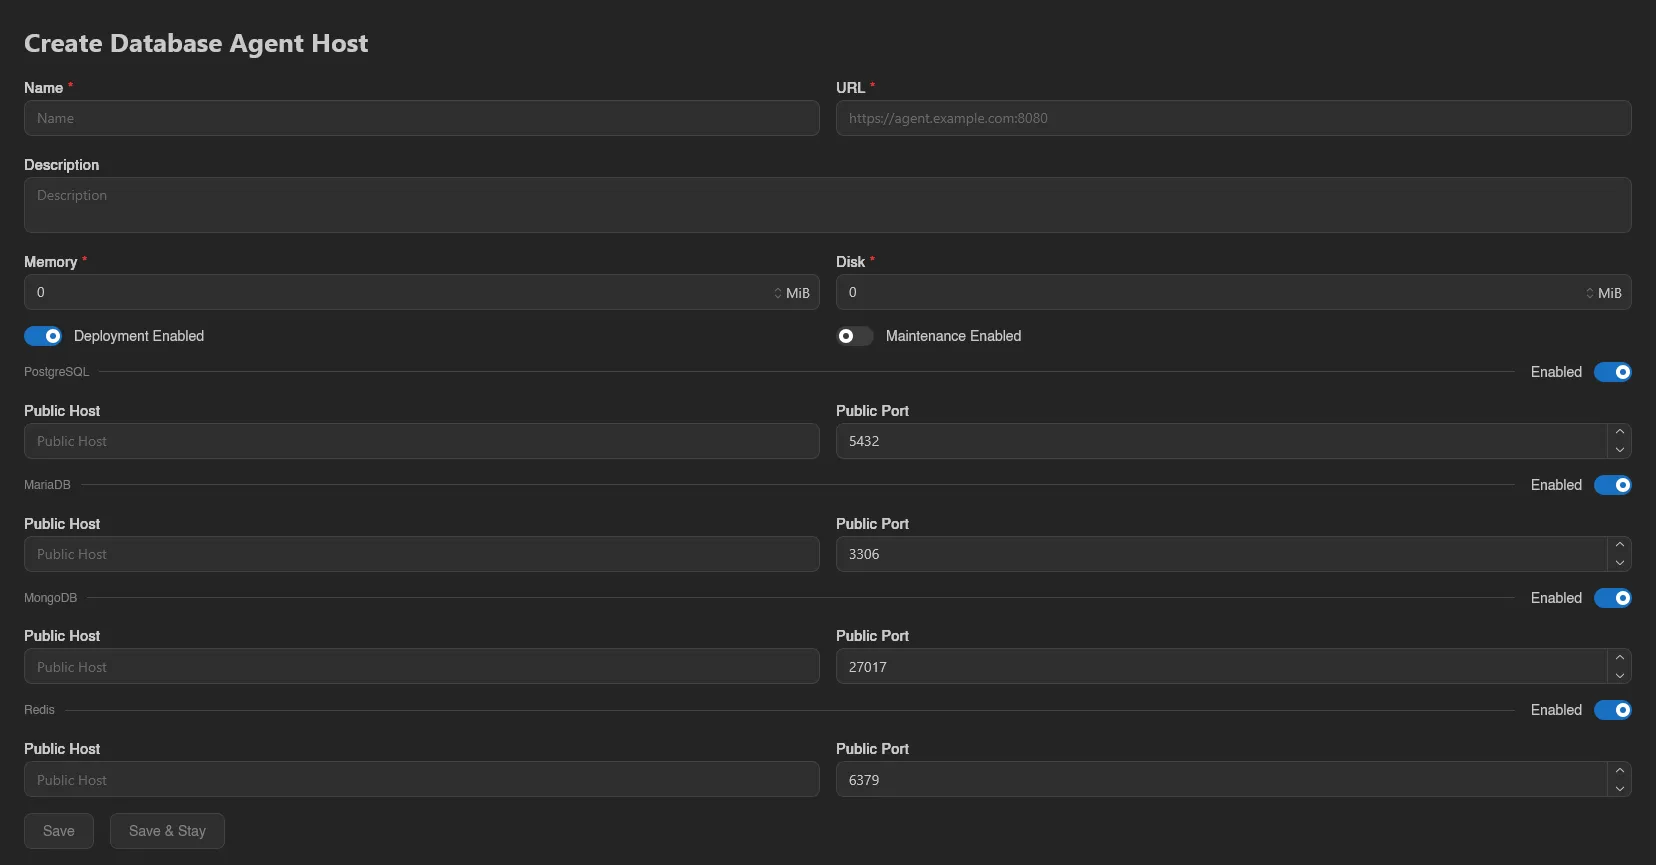
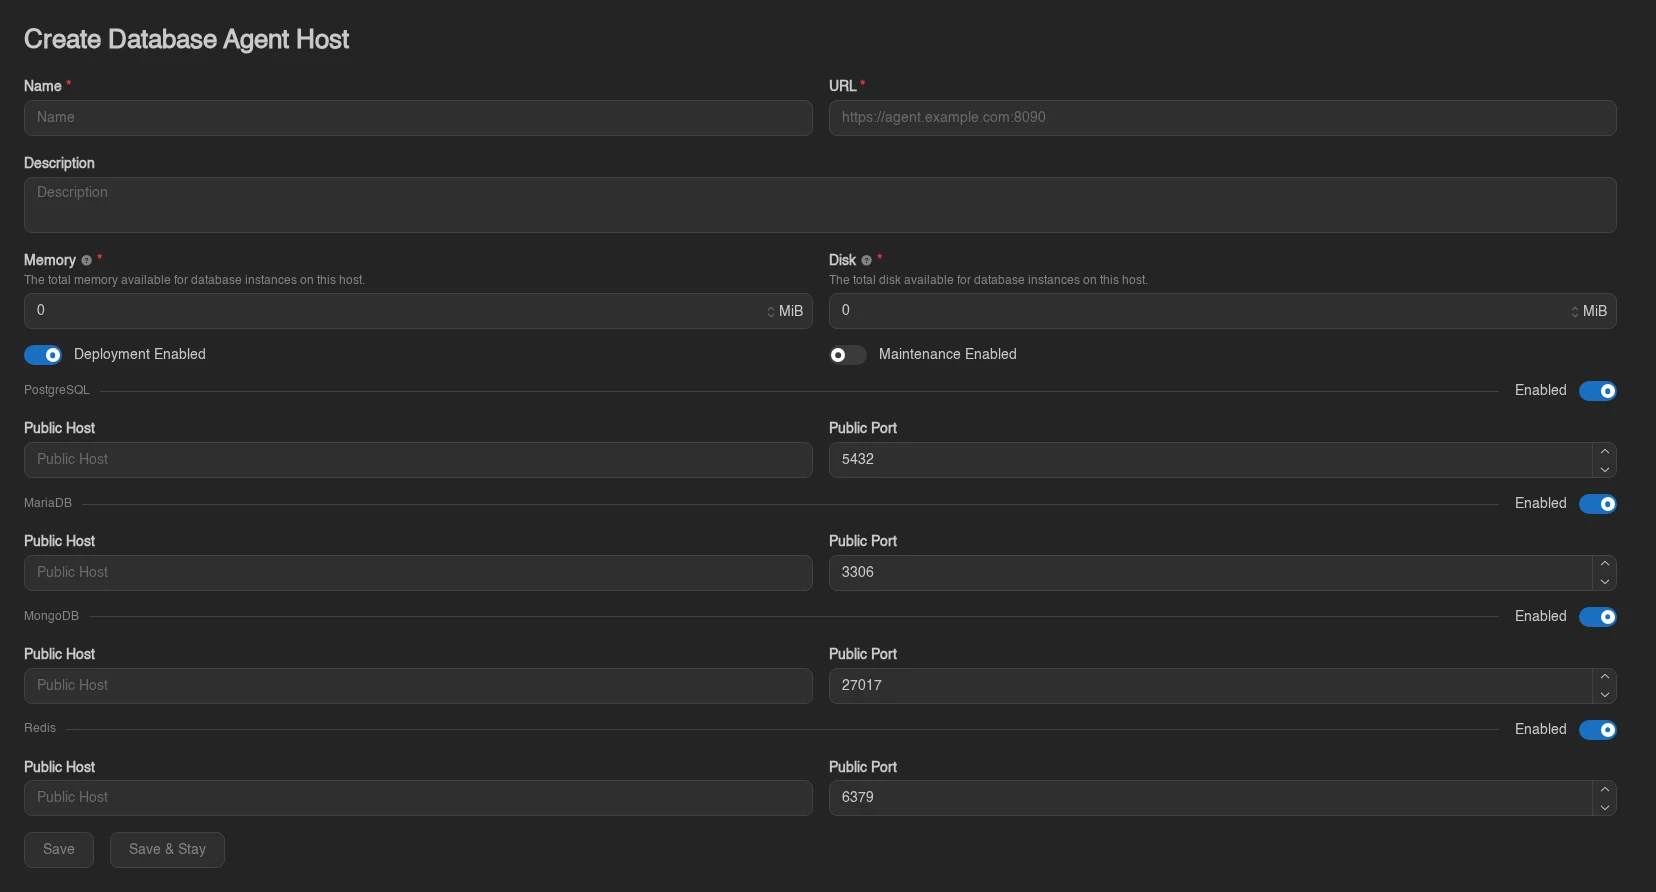
update docs

diff --git a/web/docs/panel/features/admin/database-agent-hosts.md b/web/docs/panel/features/admin/database-agent-hosts.md
@@ -11,7 +11,13 @@ A database agent host is a machine running the [Calagopus DB Agent](../../../db-
 Install the agent on the machine first; the [DB Agent docs](../../../db-agent/index.md) cover installation and the [configuration reference](../../../db-agent/configuration.md). The panel side below hands you the exact config file to drop in.
 :::
 
-The list at `/admin/database-agent-hosts` shows each host's ID, Name, and Created date. Rows have selection checkboxes; drag across rows or Ctrl/Cmd-click to select several (Ctrl/Cmd+A for all, Escape to clear). With hosts selected, an action bar appears with **Update Config**, which applies a YAML configuration snippet to every selected host at once.
+The list at `/admin/database-agent-hosts` shows a health indicator, ID, Name, and Created date for each host. The heart is green when the panel can reach the agent, yellow and pulsing when an agent update is available, and broken red when the host is unreachable; hovering it gives the agent version. Next to the name, a badge shows whether the host can still take new instances: **Deployment Enabled** (green), **Nearly Full** (yellow), **No Capacity** (orange), **Under Maintenance** (red), **No Types Enabled** (red), or **Deployment Disabled** (red). Hovering it shows allocated memory and disk against the host's limits, or "no host limit" where a limit is `0`.
+
+Rows have selection checkboxes; drag across rows or Ctrl/Cmd-click to select several (Ctrl/Cmd+A for all, Escape to clear). With hosts selected, an action bar appears with **Update Config**, which applies a YAML configuration snippet to every selected host at once.
+
+::: info
+The capacity states compare the memory and disk claimed by the host's instances against its configured limits, whichever of the two is worse: **Nearly Full** from 90%, **No Capacity** at 100% or over. A limit of `0` is unlimited and never counts toward either. **Deployment Disabled**, **Under Maintenance** and **No Types Enabled** each rule the host out on their own, so they are checked first, in that order. The allocation figures are cached for 30 seconds.
+:::
 
 ![Database agent hosts list](./images/database-agent-hosts/list.webp)
 
@@ -24,9 +30,10 @@ Click **Create** in the top right.
 | Field | Description |
 | ----- | ----------- |
 | **Name** | Display name for the host. |
-| **URL** | Where the panel reaches the agent, e.g. `https://agent.example.com:8080`. If you omit the port, a warning explains the panel will connect on the URL's default port while the agent listens on `8080` by default; an **Add :8080** button appends it for you. |
+| **URL** | Where the panel reaches the agent, e.g. `https://agent.example.com:8090`. If you omit the port, a warning explains the panel will connect on the URL's default port while the agent listens on `8090` by default; an **Add :8090** button appends it for you. |
 | **Description** | Optional free text. |
-| **Memory** / **Disk** | The capacity budget for this host. New instances are only placed on the host while the combined limits of its instances fit within these values. |
+| **Memory** | "The total memory available for database instances on this host." New instances are only placed while the combined limits of the host's instances fit within it. Defaults to `0`, which means no limit. |
+| **Disk** | "The total disk available for database instances on this host." The same placement rule applies. Defaults to `0`, which means no limit. |
 | **Deployment Enabled** | Whether new instances may be placed on this host. On by default. |
 | **Maintenance Enabled** | Puts the host into maintenance mode, see below. Off by default. |
 
@@ -102,11 +109,11 @@ Live host metrics streamed from the agent: CPU, memory, disk, and network cards 
 
 ## How Instances Are Placed
 
-Like database hosts, agent hosts must be attached to a node or location from that node's or location's **Database Agent Hosts** tab. When a user creates a managed database, the panel picks among hosts that are attached to the server's node or its location, have **Deployment Enabled** on, are not in maintenance, have the requested database type enabled, and still have enough free memory and disk; the least utilized eligible host is preferred.
+Like database hosts, agent hosts must be attached to a node or location from that node's or location's **Database Agent Hosts** tab. When a user creates a managed database, the panel picks among hosts that are attached to the server's node or its location, have **Deployment Enabled** on, are not in maintenance, have the requested database type enabled, and still have enough free memory and disk; the least utilized eligible host is preferred. A limit of `0` always passes the capacity check and counts as zero utilization in that ranking, so a host with neither limit set comes first.
 
 ## Maintenance Mode
 
-While **Maintenance Enabled** is on, users cannot send power actions to instances on the host, update them, or delete them. Template updates skip instances on hosts in maintenance too.
+While **Maintenance Enabled** is on, the host takes no new instances, and users cannot send power actions to the instances already on it, update them, or delete them. Template updates skip instances on hosts in maintenance too.
 
 ::: info
 The buttons on these pages follow the `database-agent-hosts.*` admin permission keys (`create`, `read`, `update`, `delete`, `test`, `read-token`, `reset-token`). See the [Permissions Reference](../dashboard/permissions.md).

diff --git a/web/docs/panel/features/admin/nodes.md b/web/docs/panel/features/admin/nodes.md
@@ -7,10 +7,10 @@ description: Create and manage Calagopus nodes, from the connection settings and
 
 A node is a machine running wings that hosts servers. This page covers the admin UI surface; for the step-by-step setup of a new node, follow [Configuring a New Node](../../../wings/next-steps/configure-node.md).
 
-The list shows a health indicator, ID, Name, Location, and Created timestamp for each node. The heart is green when the panel can reach wings, yellow and pulsing when a wings update is available, and broken red when the node is unreachable. Next to the name, a badge shows whether the node can still take new servers: **Deployment Enabled** (green), **Nearly Full** (yellow), **No Capacity** (orange), or **Deployment Disabled** (red). Hovering it shows allocated memory and disk against the node's limits, or "no node limit" where a limit is `0`. A red **Under Maintenance** badge sits alongside it while the node is in maintenance, and an All-in-One node (wings built into the panel container) gets a purple heart after its badges, separate from the health heart in the first column.
+The list shows a health indicator, ID, Name, Location, and Created timestamp for each node. The heart is green when the panel can reach wings, yellow and pulsing when a wings update is available, and broken red when the node is unreachable. Next to the name, a badge shows whether the node can still take new servers: **Deployment Enabled** (green), **Nearly Full** (yellow), **No Capacity** (orange), **Under Maintenance** (red), or **Deployment Disabled** (red). Hovering it shows allocated memory and disk against the node's limits, or "no node limit" where a limit is `0`. An All-in-One node (wings built into the panel container) gets a purple heart after the badge, separate from the health heart in the first column.
 
 ::: info
-The capacity states compare allocated memory (including reserved container overhead) and allocated disk against the node's configured limits, whichever of the two is worse: **Nearly Full** from 90%, **No Capacity** at 100% or over. A limit of `0` is unlimited and never counts toward either. **Deployment Disabled** takes precedence over any capacity state, and the allocation figures are cached for 30 seconds. These are the same numbers the [Allocated Resources](#overview) card breaks down per node.
+The capacity states compare allocated memory (including reserved container overhead) and allocated disk against the node's configured limits, whichever of the two is worse: **Nearly Full** from 90%, **No Capacity** at 100% or over. A limit of `0` is unlimited and never counts toward either. **Deployment Disabled** wins over **Under Maintenance**, and both win over the capacity states, because either one rules the node out on its own. The allocation figures are cached for 30 seconds. These are the same numbers the [Allocated Resources](#overview) card breaks down per node.
 
 The badge falls back to **Deployment Enabled** when the allocation figures cannot be loaded, so green on its own is not proof that the node has room.
 :::
@@ -50,7 +50,7 @@ Click **Create** in the top right (requires `nodes.create`). If no location exis
 | **Disk** | Required, default 10 GiB. "The total disk available for servers on this node." `0` means no limit. |
 | **Backup Configuration** | Optional. Defaults to **Inherit from Location**. See [Backup Configurations](../../../wings/advanced/backup-configurations.md). |
 
-**Options** section: **Deployment Enabled** (on by default) controls whether new servers can be deployed to this node, and **Maintenance Enabled** (off by default) marks it as under maintenance.
+**Options** section: **Deployment Enabled** (on by default) controls whether new servers can be deployed to this node. **Maintenance Enabled** (off by default) marks the node as under maintenance. New servers are not deployed to it while that is on, and users cannot interact with the servers it already hosts.
 
 Hit **Save**, or **Save & Stay** to create another. These limits are what deployment checks, not the physical machine capacity, so setting them above the real hardware over-allocates the node.
 
